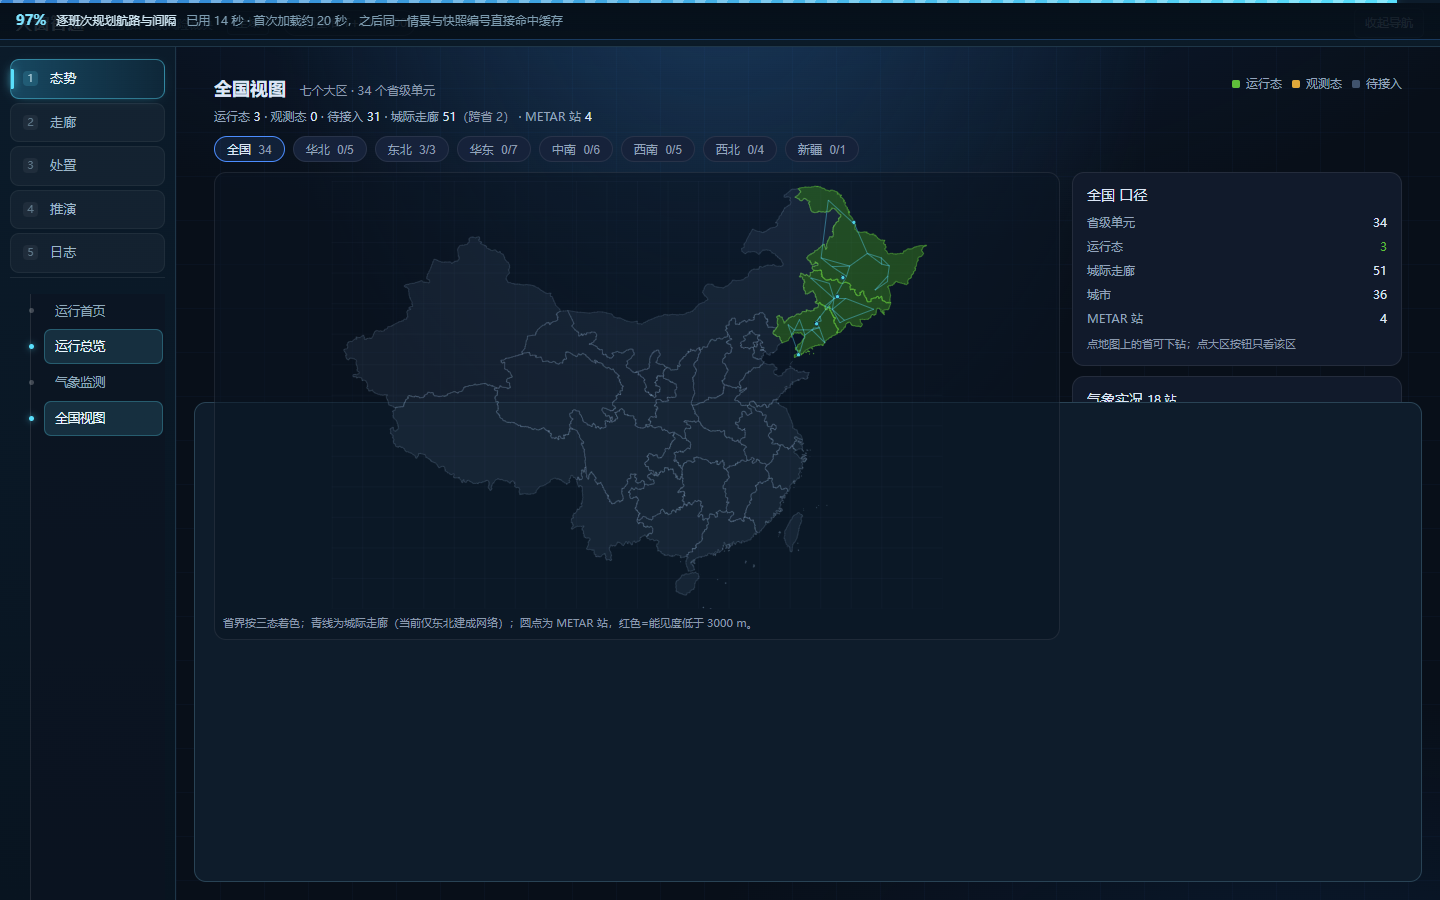
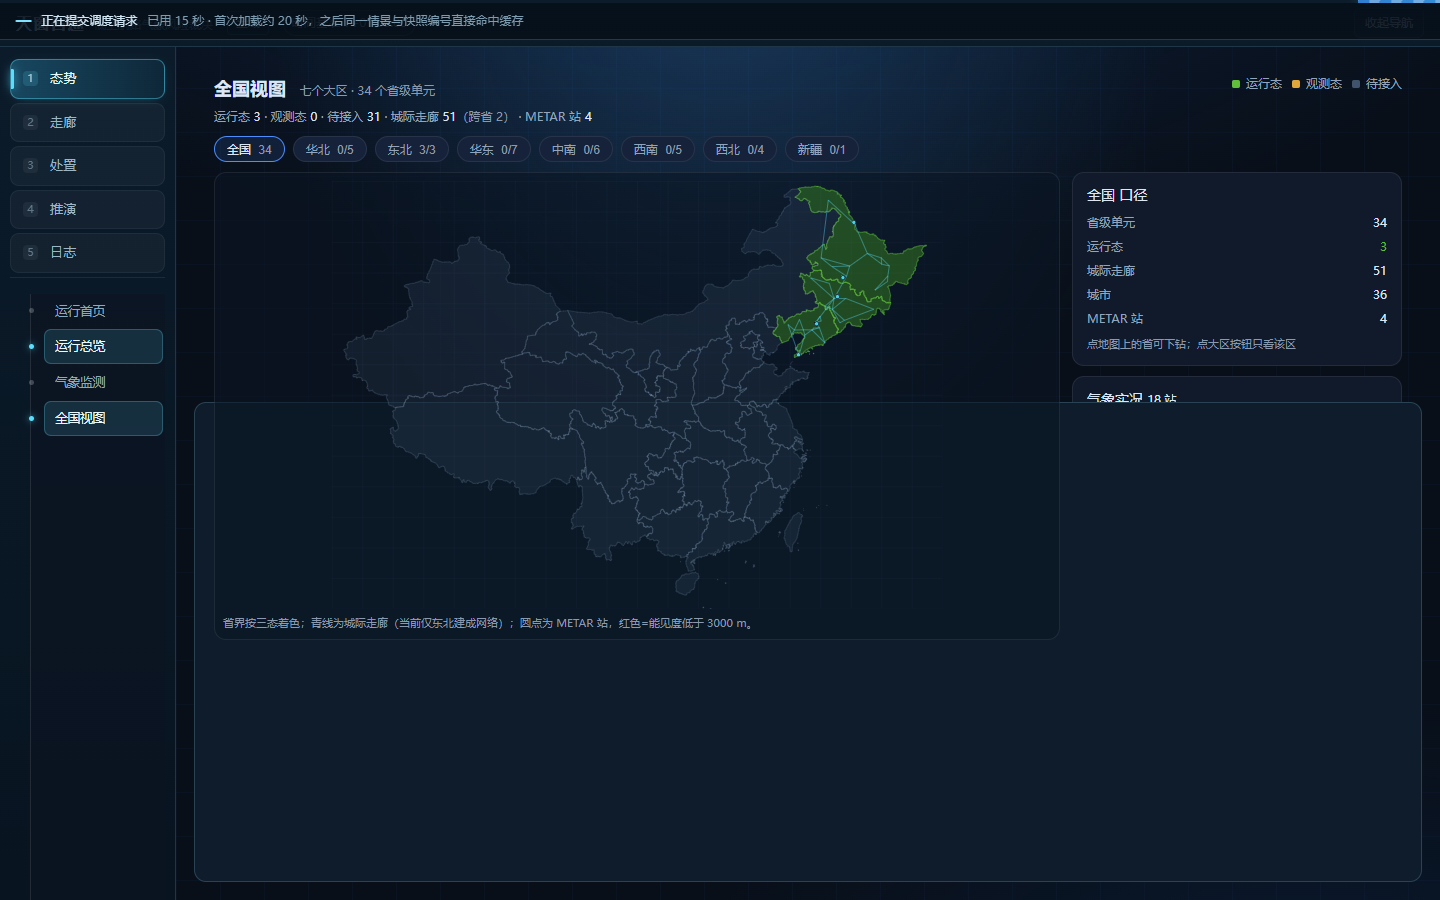
交接单：W2/W3 施工步骤与环境备忘；全国视图气象卡问题记录

Changed region(s): [[0.0, 0.0, 1.0, 0.0311]]

diff --git a/frontend/src/components/traffic/NationalPanel.vue b/frontend/src/components/traffic/NationalPanel.vue
@@ -292,8 +292,8 @@ function fmt(value,suffix){
 .nlx-mapnote span{color:var(--alc-info);margin-left:8px}
 .nlx-side{display:flex;flex-direction:column;gap:10px;min-height:0}
 .nlx-kpi,.nlx-wx{background:var(--alc-bg-1);border:1px solid var(--alc-line);border-radius:12px;padding:12px 14px;min-height:0}
-.nlx-wx{display:flex;flex-direction:column;overflow:hidden;height:260px;flex:none}
-.nlx-wx-scroll{overflow-y:auto;display:flex;flex-direction:column;gap:6px;padding-right:4px;flex:1;min-height:0}
+.nlx-wx{display:block;overflow:hidden;height:260px;flex:none}
+.nlx-wx-scroll{display:block;height:200px;overflow-y:auto;padding-right:4px}
 .nlx-kpi h3,.nlx-wx h3{margin:0 0 8px;font-size:var(--alc-fs-body);font-weight:500}
 .nlx-kpi h3 small{margin-left:6px;font-size:11px;color:var(--alc-text-mute);font-weight:400}
 .nlx-kpi dl{margin:0;display:grid;gap:6px}
@@ -302,8 +302,8 @@ function fmt(value,suffix){
 .nlx-kpi dd{margin:0;color:var(--alc-text)}
 .nlx-kpi dd.ok{color:#5fbf3a}
 .nlx-hint{margin:8px 0 0;font-size:11px;color:var(--alc-text-mute);line-height:1.5}
-.nlx-wx-scroll{overflow-y:auto;display:flex;flex-direction:column;gap:6px;padding-right:4px;flex:1}
-.nlx-wx-scroll article{flex:0 0 auto;background:var(--alc-bg-2);border-radius:8px;padding:7px 9px;font-size:var(--alc-fs-aux);display:flex;flex-wrap:wrap;gap:6px;align-items:baseline}
+.nlx-wx-scroll article+article{margin-top:6px}
+.nlx-wx-scroll article{display:block;background:var(--alc-bg-2);border-radius:8px;padding:7px 9px;font-size:var(--alc-fs-aux);display:flex;flex-wrap:wrap;gap:6px;align-items:baseline}
 .nlx-wx-scroll b{font-weight:500}
 .nlx-wx-scroll em{font-style:normal;color:var(--alc-text-mute);font-size:11px}
 .nlx-wx-scroll span{color:var(--alc-text-dim);font-size:11px;width:100%}

diff --git a/docs/V1.0.1-施工交接-20261110.md b/docs/V1.0.1-施工交接-20261110.md
@@ -1,0 +1,116 @@
+# V1.0.1 施工交接（2026-11-10 10:50）
+
+> 用途：本文件是**给下一轮对话的施工单**。上一轮上下文用尽，交接时状态如下。
+> 原则：只写「做完了什么／卡在哪／下一步按什么命令做」，不写心路历程。
+
+---
+
+## 1. 已完成（可直接验收）
+
+| 项 | 位置 | 状态 |
+|---|---|---|
+| 全国层聚合接口 | `backend-python/traffic/national.py`、`GET /traffic/v2/national` | ✅ 200 / 7.3 KB（判据 <30 KB） |
+| 全国层测试 | `backend-python/tests/test_national.py` | ✅ 4/4，含"51+跨省2=53"口径闭合 |
+| 网关透传 | `backend-java/.../DecisionController.java` 的 `v2/{resource}` 枚举加了 `national` | ✅ |
+| 数字口径闸门 | `tools/maintenance/_check_number_discipline.py` | ✅ 含 `--self-test`；材料层 0 findings |
+| 全国视图（地图版） | `frontend/src/components/traffic/NationalPanel.vue` | ✅ 省界三态 + 53 条城际走廊 + 4 个 METAR 站 + 七区筛选 + 省下钻 + 右上 KPI |
+| 分节接线 | `runtime.js`（NAMES/HINTS/HASHES/CAN_DO + NAV_SPEC 挂 `overview` 入口 tab）、`TrafficWorkbench.vue`、`docs/NAMING.md` §1 | ✅ 入口仍 8、视图 15、深链 `#/situation/national` 双向可读 |
+| 引导浮层遮挡 | `TrafficWorkbench.vue` 的 `.nav-tour` 加 `activeSection!=='national'` | ✅ 引导不再压右下数据卡 |
+| 演示模式开关 | `runtime.js` 的 `isOfflineMode()` 认 `?demo=1`，新增 `isDemoMode()`，顶部黄条 | ✅（"拔网线跑 5 分钟"未实测） |
+| 前端测试/构建 | — | ✅ 477/477、build 通过 |
+
+提交：`f7d5c7d`（后端）→ `932b54e`（前端接入）→ `9f9707c`（地图版）→ `4770371`（浮层+列表）。**全部本地，未推远端**（VERSION 仍 1.0.0，钩子按版本号触发，没动过）。
+
+---
+
+## 2. 唯一未修好的视觉缺陷
+
+**右下「气象实况」列表在画面上不可见。**
+
+已确证的事实（不要再重复测量）：
+
+```
+.nlx-wx        offsetHeight = 260，computed height = 260px，flex = 0 0 auto
+.nlx-wx-scroll offsetHeight = 205（改 block+200px 后亦然）
+article        18 条，首条 offsetHeight = 55，innerText = "沈阳 ZYTX 7°C · 能见 — · 风 —"
+```
+
+即 **DOM、文本、尺寸全部正常，但截图里该区域是空白**。已排除：
+- flex 收缩（已改 `flex:none` / `flex:0 0 auto` / 外层改 `display:block`）
+- 高度塌陷（实测 260 / 205）
+- 样式未生效（computed 值正确）
+- 引导浮层遮挡（已修，且修后仍空白）
+- 元素截图错位（整页截图同样空白）
+
+**下一步唯一正确的诊断路径**（别再盲改 CSS）：
+
+1. 用**真实浏览器窗口**（非 headless）打开 `http://127.0.0.1:5180/#/situation/national`，肉眼确认是否同样空白。
+   - 正常 → 是 headless/合成层截图问题，代码不用改，记录结论即可。
+   - 同样空白 → 走第 2 步。
+2. 在真实窗口按 F12：
+   - Elements 里选中 `.nlx-wx-scroll article`，看盒模型高亮是否落在可见区域；
+   - Layers 面板看是否有独立合成层把它裁掉；
+   - 检查是否有祖先带 `transform: scale()`（页面有整站缩放 `stageBox`），`will-change` 或 `contain` 导致合成层裁剪。
+3. 若确属缩放导致的坐标错位：给 `.nlx-map` / `.nlx-wx` 的祖先加 `transform: none` 或把全国视图移出缩放舞台（`activeSection==='national'` 时不套 `scale`）。
+
+---
+
+## 3. 未开工（本轮要求但没做）
+
+### W3 · 1366 容器实测与断点
+
+判据（软件册 §3）：`实测字号 = fontSize × scale ≥ 12 px`，**用容器实测高度**算，不用 `window.innerHeight`。
+
+施工步骤：
+1. 起服务后，在 1366×768 下量 `.hstage` 的 `transform` 矩阵与 `getBoundingClientRect().height`，得出真实 scale（预期 0.50–0.57，不是 0.711）。
+2. 取首页/走廊/处置/反事实四页，量 `.alc-fs-aux` 等最小字号的渲染高度（`el.getBoundingClientRect().height`，不是 fontSize）。
+3. 只对**这四页**加断点（压缩列宽、去留白），其余页保持缩放。
+4. 留两张截图：缩放矩阵 + 关键页最小字号。
+
+### W2 · 净空三层（L-A/L-B/L-C）
+
+现状：`fixed-zones.json` 已有 24 机场 55 km 圆 + 24 条巡视矩形，`zones.envelope()` 只并 `PROHIBITED`（`routing` 障碍集用），**不要动它**（动了会毁 2848/94%）。
+
+施工步骤：
+1. **先写不变性测试**（`tests/test_clearance_soft.py`）：`k=0` 时 `simulate(seed=42)` 的 `detours/flights/delayMinutes` 必须与当前基线逐字段相等，先固定成一个快照断言。
+2. 给 `traffic/routing.py` 的 `route()` 增加两个关键字参数：
+   ```python
+   penalty_geometry=None, penalty_weight=0.0, exempt_radius_m=8000.0
+   ```
+   在邻居扩展处把 `step*hypot` 改成 `step*hypot + penalty_weight * 段在 penalty_geometry 内的长度`；
+   起降段豁免：`penalty_eff = penalty_geometry.difference(start点buffer(R).union(end点buffer(R)))`，每条走廊算一次。
+3. 默认 `penalty_weight=0.0` → 行为与本版逐字节一致（第 1 步的测试就是为这个）。
+4. 调用侧：`service._plan_trajectory` 里 `route(...)` 的调用点传入 `penalty_geometry=zones.envelope('approval')?`，**只在开了 L-C 开关时才传**。
+5. 对外暴露：`/traffic/v2/overview?clearance=off|soft`，默认 `off`。
+6. 台账模板按软件册 §2.3 三条：待审批穿越 N 条 / 核心禁飞 0 条 / 航路规避（净空内航段 3.2→0.8 km）。
+
+**红线**：默认口径下 `2 848 / 8 班 / 320 min / 94%` 一个都不能变。
+
+---
+
+## 4. 环境备忘（踩过的坑，直接照做）
+
+- pip 必须 `-i https://mirrors.aliyun.com/pypi/simple/`；`cryptography` 不在 requirements，要单装。
+- pytest 必须加 `--basetemp=../.run/pytest-tmp`，否则 `%TEMP%\pytest-of-*` 拒写，60 条用例直接 ERROR。
+- 全量 `pytest` 单进程会跑到 shapely 并集超时（>10 min），按文件拆开跑；`test_radar_avoidance` 单独 34/34、45 秒。
+- `dev.ps1` 会因 `HTTPS_PROXY`/`https_proxy` 重复键在启动 Python 时失败：先 `Remove-Item Env:https_proxy`。
+- 网关需 `--python-service.base-url=http://127.0.0.1:8600`（或存在 `config/application.yml`，从 example 复制）。
+- 手工起全套：
+  ```
+  python -m uvicorn main:app --host 127.0.0.1 --port 8600
+  java -cp "target/classes;$(cat ../.run/java-classpath.txt)" com.tianchuang.TianchuangApplication --server.port=8085 --python-service.base-url=http://127.0.0.1:8600
+  npx vite --port 5180 --strictPort
+  ```
+- 截图用 `playwright-cli`，浏览器只能 `--browser=msedge`（本机没装 Chrome）；会话在命令结束后会被回收，**open+操作必须写在同一条 bash 里**。
+
+---
+
+## 5. 验收清单（做完 W2/W3 后逐条打勾）
+
+- [ ] `/traffic/v2/national` < 30 KB，34 省级单元、3 运行态
+- [ ] 全国视图：地图三态正确、点省可下钻、切大区只亮该区
+- [ ] 1366 下四个关键页最小字号 ≥ 12 px（截图留证）
+- [ ] `k=0` 时 2848 / 8 班 / 320 min 与基线逐字段相等
+- [ ] `k>0` 时净空内航段长度下降，且默认口径未被改写
+- [ ] `python tools/maintenance/_check_number_discipline.py` → exit 0
+- [ ] `cd frontend && npm test` → 477/477
